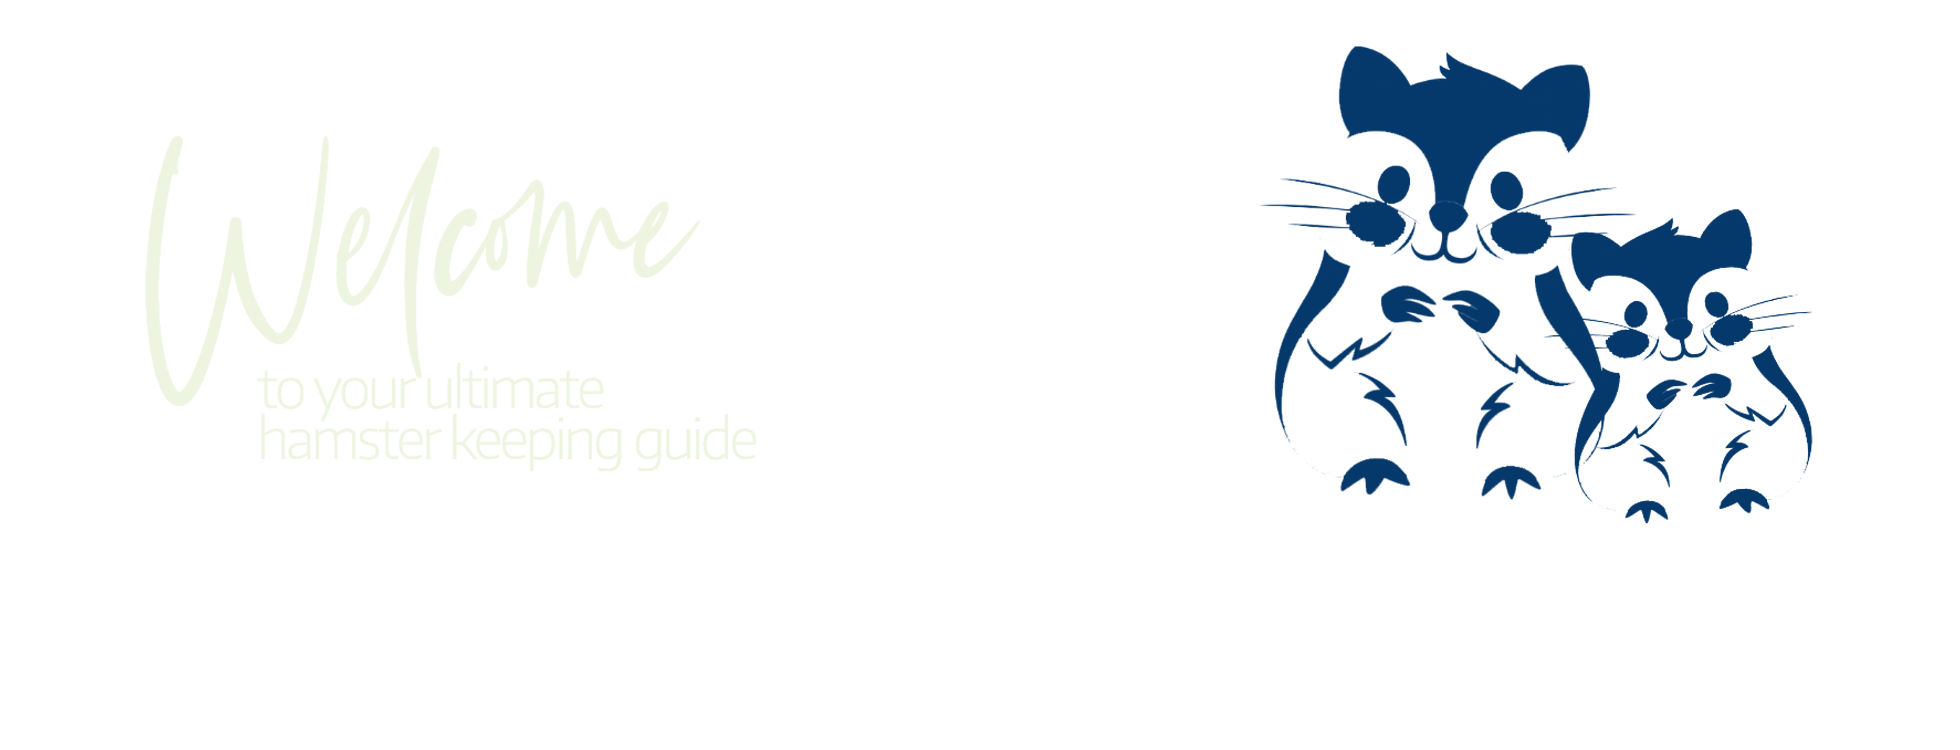
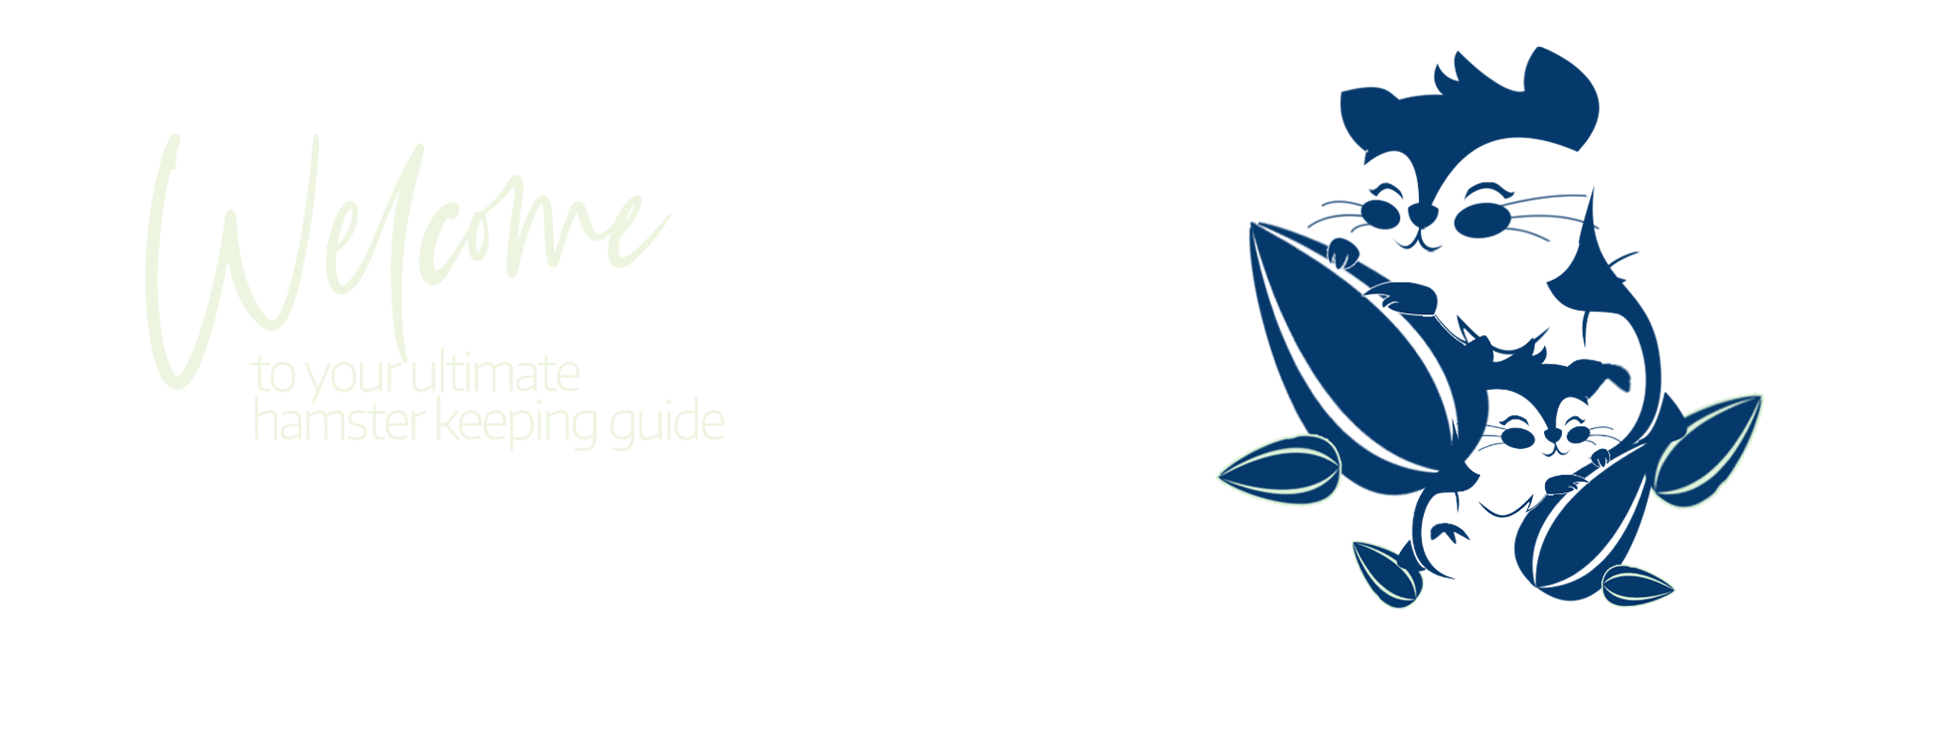
Home Cover

Changed region(s): [[0.6224, 0.1227, 0.9337, 0.828], [0.0622, 0.184, 0.3735, 0.6133], [0.6847, 0.0613, 0.8092, 0.1533]]

diff --git a/hamsterest-home.html b/hamsterest-home.html
@@ -31,8 +31,8 @@
 		<div class="swiper-container">
 			<div class="swiper-wrapper">
 				  <div class="swiper-slide"><img src = "img/welcome_hamster.png"></div>
-				  <div class="swiper-slide"><img src = "img/welcome_hamster.png"></div>
-				  <div class="swiper-slide"><img src = "img/welcome_hamster.png"></div>
+				  <div class="swiper-slide"><img src = "img/welcome_hamster1.png"></div>
+				  <div class="swiper-slide"><img src = "img/welcome_hamster2.png"></div>
 			</div>
 		</div>
 		
